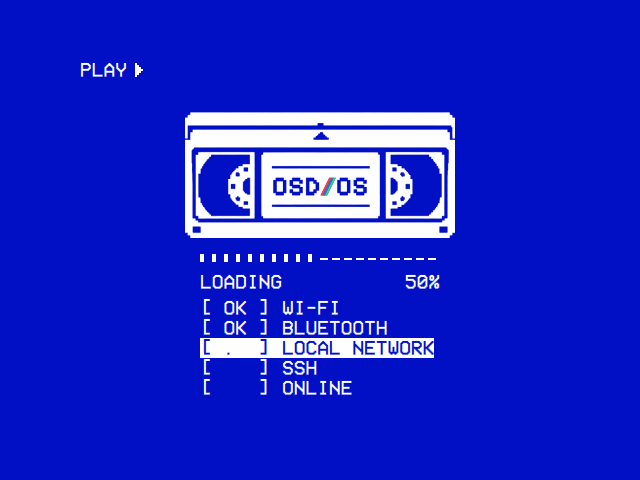
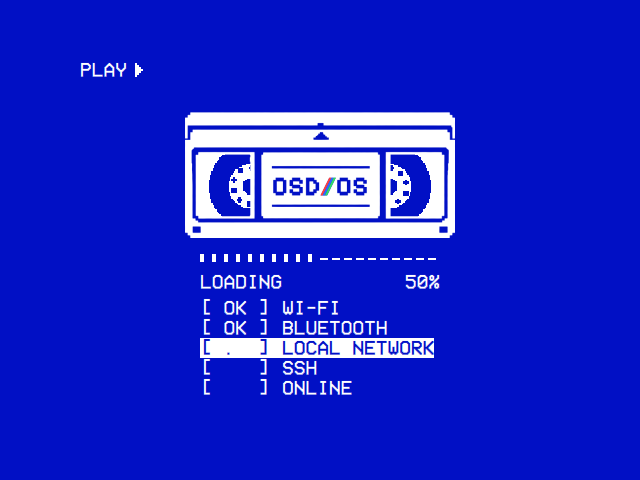
feat: the boot screen's cassette turns its reels and winds its tape
The owner wants the cassette's reels to turn and the take-up reel to
fill, without the logo breaking up as it did before.

- assets/images/cassette-shell.png is the drawing (cassette.png) with its
  two windows cut out. What shows through them is painted under it on a
  grid of cells three of the drawing's pixels wide, scaled up without
  smoothing, so it keeps the drawing's stepped edges, and a cell further
  out under the frame, so the frame is never painted over and its edge
  stays clean: the shell behind the tape, the tape as a disc as large as
  the tape the reel holds (off the left reel, onto the right one, with
  the boot's progress), the hub with ten holes, square and round in turn
  as the drawing has them, and the spindle.
- Both reels turn the same way, the one with less tape on it the faster,
  as on a deck: a turn every four seconds when empty, twelve times a
  second, only while the cassette is on screen.
- At the start the left reel is full and the right one empty; at the
  end, the other way round.
- os/boot-screen.gif and the README's boot screenshot are taken again,
  and the README, os/README and the tour describe the reels turning.

Claude-Session: https://claude.ai/code/session_01BPj7F5bUAW2FbHbUrDiQbs

Changed region(s): [[0.3125, 0.3125, 0.4062, 0.4688], [0.5938, 0.3125, 0.6875, 0.4688]]

diff --git a/views/Components/VhsCassette.qml b/views/Components/VhsCassette.qml
@@ -1,10 +1,18 @@
 import QtQuick
 
-// The VHS cassette on the boot screen, the owner's drawing itself, made with
-// ChatGPT (assets/images/cassette.png: white where the drawing is ink, with its
-// own edges) in the theme's text colour, the slash on its label in its three
-// colours. It is the logo, so it is drawn as it is, the tape in both windows
-// as the drawing has it: the boot's progress shows in the bar under it.
+// The VHS cassette on the boot screen, the owner's drawing (made with ChatGPT),
+// its reels turning and its tape winding off the left (supply) reel onto the
+// right (take-up) one as `progress` goes from 0 to 1.
+//
+// The drawing's shell is assets/images/cassette-shell.png, the drawing
+// (cassette.png: white where it is ink, with its own edges) with its two
+// windows cut out, drawn in the theme's text colour. What shows through the
+// windows is painted under it on a grid of cells three of the drawing's pixels
+// wide, so it keeps the drawing's stepped edges: the shell behind the tape, the
+// tape as a disc as large as the tape the reel holds, the hub with its ten
+// holes, square and round in turn, and the spindle. Both reels turn the way a
+// deck's do in play, the one with less tape on it the faster. The slash on the
+// label is painted over it all in its three colours.
 //
 // The host sizes it (width and height), and the drawing is stretched to that,
 // so on a screen whose pixels are not square (720×480 on a 4:3 tube) it
@@ -12,12 +20,59 @@ import QtQuick
 Item {
     id: cassette
 
-    // The one colour drawn; the host sets it to the theme's text colour.
+    // 0 = all of the tape on the left reel, 1 = all of it on the right.
+    property real progress: 0
+    // Whether the reels turn.
+    property bool running: true
+    // The colours drawn: the host sets them to the theme's text colour and its
+    // background, which is the colour of the tape and of the holes.
     property color ink: "#ffffff"
+    property color ground: "#0110c5"
 
-    // The drawing's frame, in its pixels.
+    // The drawing's frame, in its pixels, and the grid the windows are painted
+    // on: `cell` of its pixels to a cell.
     readonly property real artWidth: 612
     readonly property real artHeight: 284
+    readonly property int cell: 3
+    readonly property int columns: artWidth / cell
+    readonly property int rows: Math.ceil(artHeight / cell)
+
+    // Each window's cells, from the drawing: from `firstRow` down, a
+    // [first, last] column for each row. They are painted a cell further out
+    // all round, under the frame around the window (which is at least two
+    // cells wide), so that the frame's smoothed edge lies over what the window
+    // shows. A reel's hub is on the window's inner edge, so a window shows the
+    // half of its reel on its side (`side`: -1 left of the hub, 1 right of it).
+    readonly property int firstRow: 32
+    readonly property var leftSpans: [
+        [19, 49], [18, 49], [17, 48], [16, 48], [15, 48], [15, 49], [14, 49], [13, 49],
+        [13, 49], [12, 49], [11, 49], [11, 49], [11, 49], [11, 49], [10, 49], [10, 49],
+        [10, 49], [10, 49], [10, 49], [10, 49], [10, 49], [10, 49], [10, 49], [10, 49],
+        [10, 49], [10, 49], [10, 49], [10, 49], [10, 49], [10, 49], [10, 49], [10, 49],
+        [10, 49], [11, 49], [11, 49], [11, 49], [11, 49], [12, 49], [13, 49], [13, 49],
+        [14, 49], [15, 49], [16, 49], [17, 49], [18, 49], [18, 49], [19, 48]]
+    readonly property var rightSpans: [
+        [155, 184], [155, 186], [155, 186], [155, 187], [155, 188], [155, 189], [155, 190], [155, 190],
+        [155, 191], [155, 191], [155, 192], [155, 192], [155, 192], [155, 192], [155, 193], [155, 193],
+        [155, 193], [155, 193], [155, 193], [155, 193], [155, 193], [155, 193], [155, 193], [155, 193],
+        [155, 193], [155, 193], [155, 193], [155, 193], [155, 193], [155, 193], [155, 193], [155, 193],
+        [155, 193], [155, 192], [155, 192], [155, 192], [155, 192], [155, 191], [155, 190], [155, 190],
+        [155, 189], [155, 188], [155, 187], [155, 187], [155, 185], [155, 184], [155, 184]]
+    readonly property real leftReelX: 149
+    readonly property real rightReelX: 463
+    readonly property real reelY: 167.5
+    // The reel's parts, as radii: the spindle's hole, the hub, the ring its
+    // holes are on, and the tape, full as drawn and down to a turn or two on
+    // an empty reel.
+    readonly property real spindleRadius: 18.5
+    readonly property real hubRadius: 50
+    readonly property real holeRadius: 40.5
+    readonly property real fullRadius: 121
+    readonly property real emptyRadius: 57
+    // How fast the tape runs, in the drawing's pixels a second: a reel turns
+    // at this over its radius, a turn every four seconds when it is empty.
+    readonly property real tapeSpeed: emptyRadius * Math.PI / 2
+
     // The slash on the label: three stripes `stripe` wide, from `slashX` on
     // its top row, a pixel to the left for every two rows down.
     readonly property real slashTop: 148
@@ -29,13 +84,131 @@ Item {
     implicitWidth: artWidth
     implicitHeight: artHeight
 
+    // Tape radius on a reel holding `share` of the tape. The tape's area is
+    // conserved, so the radius follows the square root, not a straight line.
+    function reelRadius(share) {
+        var e = emptyRadius * emptyRadius
+        var f = fullRadius * fullRadius
+        return Math.sqrt(e + Math.max(0, Math.min(1, share)) * (f - e))
+    }
+    readonly property real leftRadius: reelRadius(1 - progress)
+    readonly property real rightRadius: reelRadius(progress)
+
+    // How far each reel has turned, in radians. Seen from above, a deck turns
+    // both reels anticlockwise in play.
+    property real leftTurn: 0
+    property real rightTurn: 0
+
+    Timer {
+        interval: 80
+        repeat: true
+        running: cassette.running && cassette.visible
+        onTriggered: {
+            var seconds = interval / 1000
+            cassette.leftTurn = (cassette.leftTurn - cassette.tapeSpeed / cassette.leftRadius * seconds) % (2 * Math.PI)
+            cassette.rightTurn = (cassette.rightTurn - cassette.tapeSpeed / cassette.rightRadius * seconds) % (2 * Math.PI)
+            reels.requestPaint()
+        }
+    }
+
+    // What shows through the windows, a cell to a pixel, scaled up to the
+    // drawing's size without smoothing, so each cell stays square.
+    Canvas {
+        id: reels
+        width: cassette.columns
+        height: cassette.rows
+        smooth: false
+        antialiasing: false
+        transform: Scale {
+            xScale: cassette.width / cassette.columns
+            yScale: cassette.height * cassette.cell / cassette.artHeight
+        }
+
+        // The cells of row `row` from `first` to `last`, kept to [lo, hi].
+        function run(ctx, row, first, last, lo, hi, colour) {
+            var a = Math.max(first, lo)
+            var b = Math.min(last, hi)
+            if (b < a)
+                return
+            ctx.fillStyle = colour
+            ctx.fillRect(a, row, b - a + 1, 1)
+        }
+
+        // The cells of a row whose centres are within `r` of the hub: on the
+        // left reel, the first of them (from the window's outer end); on the
+        // right one, the last.
+        function reach(cx, dy, r, side) {
+            var c = cassette.cell
+            if (r <= Math.abs(dy))
+                return side < 0 ? Infinity : -Infinity
+            var w = Math.sqrt(r * r - dy * dy)
+            return side < 0 ? Math.ceil((cx - w) / c - 0.5) : Math.floor((cx + w) / c - 0.5)
+        }
+
+        function paintReel(ctx, spans, cx, side, tape, turn) {
+            var c = cassette.cell
+            var ink = cassette.ink
+            var ground = cassette.ground
+            for (var i = -1; i <= spans.length; ++i) {
+                var row = cassette.firstRow + i
+                var span = spans[Math.max(0, Math.min(spans.length - 1, i))]
+                var lo = span[0] - 1, hi = span[1] + 1
+                var dy = (row + 0.5) * c - cassette.reelY
+                // From the window's outer end in to the hub: the shell, the
+                // tape, the hub, the spindle's hole.
+                var t = reach(cx, dy, tape, side)
+                var h = reach(cx, dy, cassette.hubRadius, side)
+                var s = reach(cx, dy, cassette.spindleRadius, side)
+                if (side < 0) {
+                    run(ctx, row, lo, Math.min(t, h, s) - 1, lo, hi, ink)
+                    run(ctx, row, t, Math.min(h, s) - 1, lo, hi, ground)
+                    run(ctx, row, h, s - 1, lo, hi, ink)
+                    run(ctx, row, s, hi, lo, hi, ground)
+                } else {
+                    run(ctx, row, lo, s, lo, hi, ground)
+                    run(ctx, row, Math.max(s + 1, lo), h, lo, hi, ink)
+                    run(ctx, row, Math.max(h + 1, lo), t, lo, hi, ground)
+                    run(ctx, row, Math.max(t + 1, h + 1, lo), hi, lo, hi, ink)
+                }
+            }
+            // The hub's ten holes, square and round in turn, four cells
+            // across, turned with it; a round one is a square without its
+            // corners. Each is kept to the window.
+            ctx.fillStyle = ground
+            for (var k = 0; k < 10; ++k) {
+                var a = (side < 0 ? Math.PI : 0) + k * Math.PI / 5 + turn
+                var hx = Math.round((cx + cassette.holeRadius * Math.cos(a)) / c - 2)
+                var hy = Math.round((cassette.reelY + cassette.holeRadius * Math.sin(a)) / c - 2)
+                for (var y = 0; y < 4; ++y) {
+                    var r = hy + y - cassette.firstRow
+                    if (r < 0 || r >= spans.length)
+                        continue
+                    for (var x = 0; x < 4; ++x) {
+                        if (k % 2 === 1 && (x === 0 || x === 3) && (y === 0 || y === 3))
+                            continue
+                        var col = hx + x
+                        if (col >= spans[r][0] && col <= spans[r][1])
+                            ctx.fillRect(col, hy + y, 1, 1)
+                    }
+                }
+            }
+        }
+
+        onPaint: {
+            var ctx = getContext("2d")
+            ctx.reset()
+            paintReel(ctx, cassette.leftSpans, cassette.leftReelX, -1, cassette.leftRadius, cassette.leftTurn)
+            paintReel(ctx, cassette.rightSpans, cassette.rightReelX, 1, cassette.rightRadius, cassette.rightTurn)
+        }
+    }
+
     Image {
         anchors.fill: parent
         sourceSize.width: width
         sourceSize.height: height
         source: width > 0 && height > 0
                 ? "image://osdicon/" + cassette.ink.toString().replace("#", "")
-                  + "/" + Qt.resolvedUrl("../../assets/images/cassette.png")
+                  + "/" + Qt.resolvedUrl("../../assets/images/cassette-shell.png")
                 : ""
     }
 
@@ -60,4 +233,9 @@ Item {
             }
         }
     }
+
+    onLeftRadiusChanged: reels.requestPaint()
+    onRightRadiusChanged: reels.requestPaint()
+    onInkChanged: reels.requestPaint()
+    onGroundChanged: reels.requestPaint()
 }

diff --git a/views/BootScreen.qml b/views/BootScreen.qml
@@ -3,9 +3,10 @@ import Components
 
 // Boot screen of the OSD/OS image (os/README.md). The image puts the app on
 // screen first and starts the services it held back afterwards, in the order
-// it lists them; this shows them coming up under the cassette, the bar filling
-// as they do. It stays until they have all settled, or a minute has passed,
-// whatever keys are pressed.
+// it lists them; this shows them coming up while the cassette plays: its reels
+// turn, and the tape winds from one onto the other in step with the progress
+// bar. It stays until they have all settled, or a minute has passed, whatever
+// keys are pressed.
 //
 // Binds only to root.* (Main.qml mirrors bootProgress there), which stays
 // valid while this Loader-hosted view is torn down.
@@ -14,7 +15,7 @@ FocusScope {
 
     focus: true
 
-    // Smoothed copy of the boot progress that drives the bar.
+    // Smoothed copy of the boot progress that drives both the bar and the tape.
     property real shownProgress: root.bootValue
     Behavior on shownProgress { NumberAnimation { duration: 450; easing.type: Easing.OutCubic } }
 
@@ -118,8 +119,10 @@ FocusScope {
         width: Math.round(root.sw * 612 / 1448)
         height: Math.round(root.sh * 284 / 1086)
         ink: root.primaryColor
+        ground: root.surfaceColor
         x: Math.round((root.sw - width) / 2)
         y: bootRoot.blockY
+        progress: bootRoot.shownProgress
     }
 
     // The deck's segment bar, across the column.

diff --git a/README.md b/README.md
@@ -16,7 +16,7 @@ It's built to work in conjunction with [MPV](https://github.com/anthonycaccese/2
 
 240-MP is an app: it is installed on a system that is already set up, Raspberry Pi OS, Steam OS or macOS, and starts once that system has booted its own way, its splash, boot messages and login prompt or desktop included. The **OSD/OS** image ([os/README.md](os/README.md)) is the system itself:
 
-- **It boots into OSD/OS.** No rainbow splash, no boot messages, no login prompt: from the moment the Pi is switched on the screen is OSD/OS's, starting with its own boot screen: the OSD/OS cassette, and under it the system coming up, a line per service.
+- **It boots into OSD/OS.** No rainbow splash, no boot messages, no login prompt: from the moment the Pi is switched on the screen is OSD/OS's, starting with its own boot screen: the OSD/OS cassette, its reels turning and its tape winding from one onto the other while the system comes up under it, a line per service.
 - **No desktop, no window manager, no file manager.** There is no display server (X11 or Wayland) and no compositor: OSD/OS draws straight to the screen through the kernel's display driver, and mpv plays straight to it too ([Nothing between the app and the screen](#nothing-between-the-app-and-the-screen)).
 - **Every screen is OSD/OS's own.** The boot screen, the menus, the file browser (Local Files' tree), the on-screen keyboard, the info screens, Settings, Bluetooth pairing, updates, and quitting, restarting or switching off: all of it is drawn by OSD/OS, in its own letters, and worked with a remote. It hands the screen over only to what plays: mpv for a video, and Chromium, full screen with nothing around it, for Netflix and Prime Video, whose players only run in a browser (and to sign in to YouTube), or a script of yours that asks for the screen.
 - **No needless background jobs.** The services Raspberry Pi OS keeps, Wi-Fi, Bluetooth, the local network and SSH (when enabled), wait until OSD/OS is on screen and then start one after another. The apt, man-db, e2scrub and dpkg-backup timers that wake the SD card at random times, mid-film included, are gone, as are cron and the Raspberry Pi Connect agent, and cloud-init runs on the first boot only.
@@ -82,7 +82,7 @@ Every screen is the app itself, running at 640×480. The film entries are sample
 <table>
 <tr><th width="50%">Boot screen</th><th width="50%">Main menu</th></tr>
 <tr><td><img src="docs/screenshots/boot.png" width="100%" alt="Boot screen" /></td><td><img src="docs/screenshots/main-menu.png" width="100%" alt="Main menu" /></td></tr>
-<tr><td>On the OSD/OS image, the OSD/OS cassette while the services start, <code>[ OK ]</code> once each is up.</td><td>The modules, like the inputs on a deck.</td></tr>
+<tr><td>On the OSD/OS image, the OSD/OS cassette winds its tape from reel to reel while the services start, <code>[ OK ]</code> once each is up.</td><td>The modules, like the inputs on a deck.</td></tr>
 </table>
 
 <table>

diff --git a/os/README.md b/os/README.md
@@ -11,7 +11,7 @@ It is a folder of its own because the image is a build of its own: pi-gen's, not
 - The image's release name is **OSD/OS** (`PI_GEN_RELEASE`, written to `/boot/firmware/issue.txt`), not pi-gen's default, which pi-gen keeps for Raspberry Pi's own builds.
 - What it is made of, and under which licences, is in [NOTICE](NOTICE); see [Licences](#licences).
 
-<img src="boot-screen.gif" width="480" alt="The boot screen: the OSD/OS cassette, a progress bar that fills, and the list of services coming up">
+<img src="boot-screen.gif" width="480" alt="The boot screen: the OSD/OS cassette, whose reels turn and whose tape winds from the left reel onto the right one as the progress bar fills, and the list of services coming up">
 
 ## What is different from a manual install
 
@@ -19,7 +19,7 @@ Compared with flashing Raspberry Pi OS Lite and running `scripts/install.sh` ([I
 
 - **The app comes first.** `osdos.service` starts as soon as the display driver is up (after `basic.target`), not after every other service (`multi-user.target`).
 - **The rest waits for it.** Wi-Fi (NetworkManager), Bluetooth, mDNS (`avahi-daemon`) and, if enabled, SSH hold back until the app has drawn its first frame. Then they start one after another, in that order.
-- **The boot screen.** While those services start, the app shows a pixel-art VHS cassette, the owner's drawing (made with ChatGPT) with OSD/OS on its label (`assets/images/cassette.png`, drawn by `views/Components/VhsCassette.qml`) as it is drawn, then a progress bar that fills as they come up and a line per service (`[ OK ] WI-FI`, …). It ends with a check that the network is actually online. The startup module opens once it is done, so modules that need the network find it ready. Keys do nothing while it is up.
+- **The boot screen.** While those services start, the app shows a pixel-art VHS cassette, the owner's drawing (made with ChatGPT) with OSD/OS on its label (`assets/images/cassette.png`, drawn by `views/Components/VhsCassette.qml`): its reels turn, and the tape winds off the left reel onto the right one as the progress bar fills, plus a line per service (`[ OK ] WI-FI`, …). It ends with a check that the network is actually online. The startup module opens once it is done, so modules that need the network find it ready. Keys do nothing while it is up.
 - **A quiet boot.** There is no rainbow splash, no one-second firmware delay (`boot_delay=0`), no kernel text, logo or cursor on `tty1`, and no login prompt on `tty1`.
 - **Less running.** The image has:
   - no apt, man-db, e2scrub or dpkg-backup timers (they wake the SD card at random times, mid-movie included);

diff --git a/docs/TOUR.md b/docs/TOUR.md
@@ -9,7 +9,7 @@ Every screen below is the app itself, running at 640×480. The film and YouTube 
 <table>
 <tr><th width="33%">Boot screen</th><th width="33%">Main menu</th><th width="33%">Quit</th></tr>
 <tr><td><img src="screenshots/boot.png" width="100%" alt="Boot screen" /></td><td><img src="screenshots/main-menu.png" width="100%" alt="Main menu" /></td><td><img src="screenshots/quit.png" width="100%" alt="Quit" /></td></tr>
-<tr><td>On the OSD/OS image, the OSD/OS cassette while the services start, <code>[ OK ]</code> once each is up. It closes by itself when the last one has settled.</td><td>The modules, like the inputs on a deck. Select opens one; back opens Settings.</td><td>Settings → Quit. When OSD/OS starts with the system, it offers Power Off, Restart or Exit to Terminal instead.</td></tr>
+<tr><td>On the OSD/OS image, the OSD/OS cassette winds its tape from reel to reel while the services start, <code>[ OK ]</code> once each is up. It closes by itself when the last one has settled.</td><td>The modules, like the inputs on a deck. Select opens one; back opens Settings.</td><td>Settings → Quit. When OSD/OS starts with the system, it offers Power Off, Restart or Exit to Terminal instead.</td></tr>
 </table>
 
 ### Local Files
